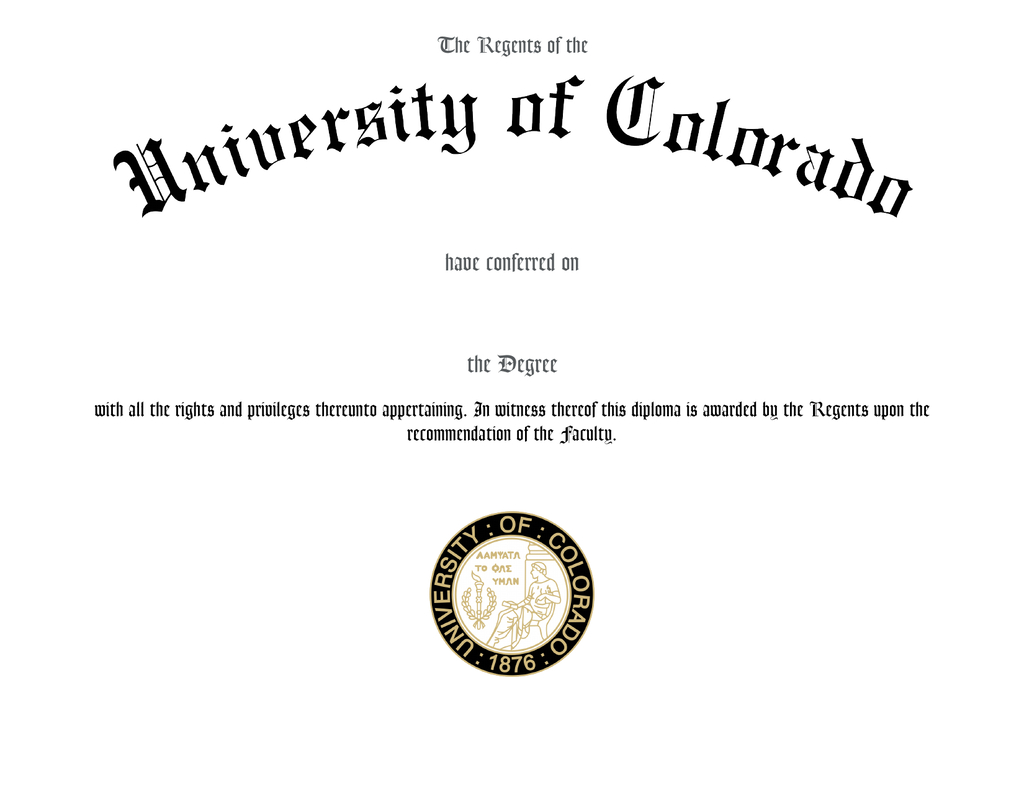
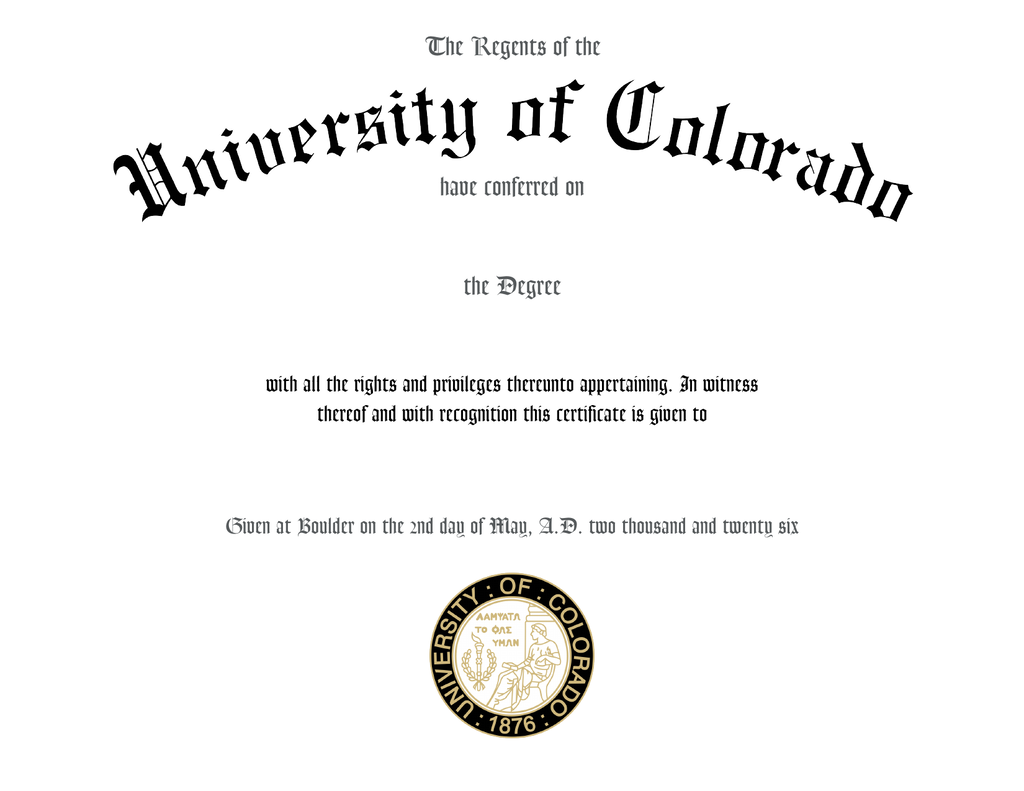
dev

diff --git a/engines/graditude_factory/lib/graditude_factory/certificates/boulder_template.rb b/engines/graditude_factory/lib/graditude_factory/certificates/boulder_template.rb
@@ -44,7 +44,7 @@ module GraditudeFactory
         message = @params["message"] || ""
         presented_on = @params["presented_on"] || ""
         presented_on_date = parse_presented_on(presented_on)
-        nouns = []
+        nouns = @params["nouns"]&.reject { |n| n.empty? } || []
 
         pdf.move_up(14.mm)
 
@@ -80,7 +80,7 @@ module GraditudeFactory
         margin = nouns.any? ? 60 : 66
 
         pdf.font(body_font) do
-          boilerplate = "with all the rights and privileges thereunto appertaining. In witness thereof and in recognition#{nouns.any? ? " of their #{nouns.join(' and ')}," : ''} this certificate is given to"
+          boilerplate = "with all the rights and privileges thereunto appertaining. In witness thereof and with recognition#{nouns.any? ? " of their #{nouns.join(' and ')}," : ''} this certificate is given to"
 
           pdf.text_box boilerplate, align: :center, size: 6.mm, color: "565A5C", width: width - (margin * 2).mm, at: [ margin.mm, pdf.cursor ], height: 28.mm, leading: 1.mm
 
@@ -95,7 +95,7 @@ module GraditudeFactory
 
           # Date line
           pdf.font(body_font) do
-            pdf.text "Given at Boulder on #{presented_on_text(presented_on_date)}", align: :center, size: 6.mm, color: "565A5C"
+            pdf.text "Given at Boulder on the #{presented_on_text(presented_on_date)}", align: :center, size: 6.mm, color: "565A5C"
           end
         end
 
